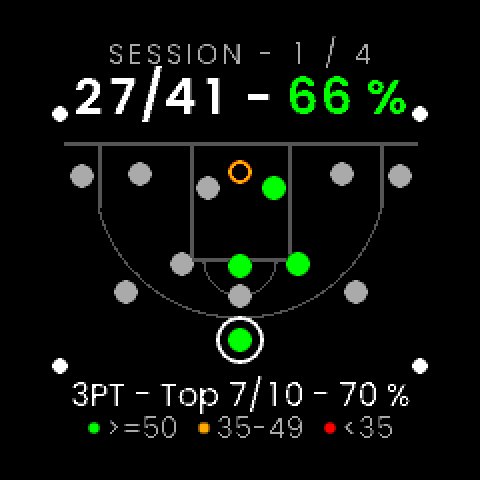
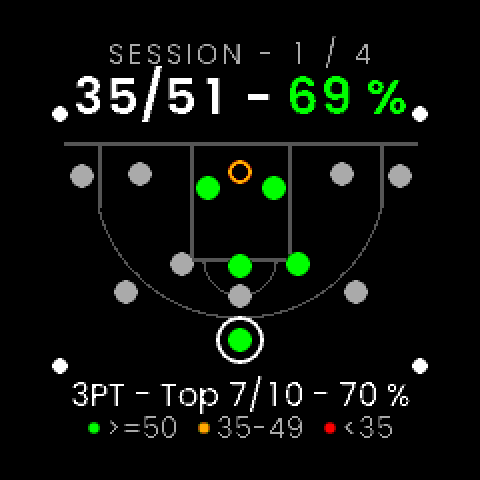
test(gui): self-test follows the 15 presets; refreshed workout previews
The walk expects the S names, Game Shots S with 5 steps / 50 shots (step 5
Layup R scripted, 34/50, categories 7/10 5/10 8/10 15/21), Mid-range Ladder S
with 10-make steps (10/12 to rest), Mikan Layups S with 25-shot steps (toast
18/25), and 11 UPs from "+ New workout" (Pro Session 200 checked) to duplicate
Game Shots S. 120 checks. Previews refreshed where the workout content shows:
workouts, workout-preview, active-workout, rest, results-court,
results-categories.

diff --git a/Software/Apps/LVGL-GUI/gui/src/SelfTest.cpp b/Software/Apps/LVGL-GUI/gui/src/SelfTest.cpp
@@ -273,13 +273,14 @@ RingArcs ringArcs()
 bool onWorkouts(const Model&) { return onScreen(ScreenId::Workouts) && onScreenLabel("WORKOUTS"); }
 bool workoutsOnGameShots(const Model&)
 {
-    return onScreen(ScreenId::Workouts) && onScreenLabel("Game Shots") && onScreenLabel("4 steps - 40 shots");
+    return onScreen(ScreenId::Workouts) && onScreenLabel("Game Shots S") && onScreenLabel("5 steps - 50 shots");
 }
-// 40 shots x 12 s + 4 x 30 s rest = 600 s.
+// 50 shots x 12 s + 5 x 30 s rest = 750 s -> 13 min.
 bool previewGameShots(const Model& m)
 {
-    return onScreen(ScreenId::WorkoutPreview) && m.selectedWorkoutId == 5 && onScreenLabel("GAME SHOTS", Theme::kAccent)
-        && onScreenLabel("Rest 30 s - about 10 min") && onScreenLabel("START") && onScreenLabel("x10");
+    return onScreen(ScreenId::WorkoutPreview) && m.selectedWorkoutId == 5
+        && onScreenLabel("GAME SHOTS S", Theme::kAccent) && onScreenLabel("Rest 30 s - about 13 min")
+        && onScreenLabel("START") && onScreenLabel("x10");
 }
 bool workoutStep(const Model& m, unsigned step, unsigned steps)
 {
@@ -291,21 +292,21 @@ bool workoutStep(const Model& m, unsigned step, unsigned steps)
 bool gsStep1Start(const Model& m)
 {
     const RingArcs r = ringArcs();
-    return workoutStep(m, 1, 4) && onScreenLabel("10 shots left") && r.look == Ring::Look::Segments
+    return workoutStep(m, 1, 5) && onScreenLabel("10 shots left") && r.look == Ring::Look::Segments
         && r.total == 10 && r.line == 10;
 }
 // M M X M M: four green, one red, five grey segments; bits 0b11011.
 bool gsStep1Mid(const Model& m)
 {
     const RingArcs r = ringArcs();
-    return workoutStep(m, 1, 4) && onScreenLabel("5 shots left") && m.snapshot().stepBits() == 0x1Bu
+    return workoutStep(m, 1, 5) && onScreenLabel("5 shots left") && m.snapshot().stepBits() == 0x1Bu
         && r.look == Ring::Look::Segments && r.total == 10 && r.good == 4 && r.bad == 1 && r.line == 5;
 }
-bool gsStep1Last(const Model& m) { return workoutStep(m, 1, 4) && onScreenLabel("last shot!"); }
+bool gsStep1Last(const Model& m) { return workoutStep(m, 1, 5) && onScreenLabel("last shot!"); }
 bool gsRest1(const Model& m)
 {
     return onScreen(ScreenId::Rest) && m.snapshot().state == static_cast<uint8_t>(score::SessionState::Rest)
-        && onScreenLabel("REST", Theme::kAmber) && onScreenLabel("NEXT - STEP 2 / 4")
+        && onScreenLabel("REST", Theme::kAmber) && onScreenLabel("NEXT - STEP 2 / 5")
         && onScreenLabel("R-Elbow x10", 0, true) && restResult(1, "7/10")
         && onScreenLabel("70 %", Theme::kGood) && m.hasStepDone() && m.lastStepDone().rest_s == 30;
 }
@@ -319,25 +320,32 @@ bool restExtended(const Model& m)
     LOG_INFO("rest countdown after +15 s: %s\n", buf);
     return m.snapshot().restRemaining_s >= 40 && onScreenLabel(buf);
 }
-bool gsStep2(const Model& m) { return workoutStep(m, 2, 4) && onScreenLabel("MID - R-ELBOW", Theme::kAccent); }
+bool gsStep2(const Model& m) { return workoutStep(m, 2, 5) && onScreenLabel("MID - R-ELBOW", Theme::kAccent); }
 bool gsRest2(const Model& m)
 {
-    return onScreen(ScreenId::Rest) && onScreenLabel("NEXT - STEP 3 / 4") && onScreenLabel("Free Throw x10")
+    return onScreen(ScreenId::Rest) && onScreenLabel("NEXT - STEP 3 / 5") && onScreenLabel("Free Throw x10")
         && restResult(2, "5/10");
 }
 bool restAfterResume(const Model& m)
 {
     return onScreen(ScreenId::Rest) && m.snapshot().state == static_cast<uint8_t>(score::SessionState::Rest)
-        && onScreenLabel("NEXT - STEP 3 / 4");
+        && onScreenLabel("NEXT - STEP 3 / 5");
 }
-bool gsStep3(const Model& m) { return workoutStep(m, 3, 4) && onScreenLabel("FREE THROW", Theme::kAccent); }
-bool gsRest3(const Model& m) { return onScreen(ScreenId::Rest) && onScreenLabel("NEXT - STEP 4 / 4"); }
-bool gsStep4(const Model& m) { return workoutStep(m, 4, 4); }
-// 7 + 5 + 8 + 6 makes of 40.
+bool gsStep3(const Model& m) { return workoutStep(m, 3, 5) && onScreenLabel("FREE THROW", Theme::kAccent); }
+bool gsRest3(const Model& m) { return onScreen(ScreenId::Rest) && onScreenLabel("NEXT - STEP 4 / 5"); }
+bool gsStep4(const Model& m) { return workoutStep(m, 4, 5) && onScreenLabel("LAYUP - L", Theme::kAccent); }
+// Step 5 next: "Layup - R x10" (or its short form "R x10"), step 4 6/10.
+bool gsRest4(const Model& m)
+{
+    return onScreen(ScreenId::Rest) && onScreenLabel("NEXT - STEP 5 / 5") && onScreenLabel("R x10", 0, true)
+        && restResult(4, "6/10");
+}
+bool gsStep5(const Model& m) { return workoutStep(m, 5, 5) && onScreenLabel("LAYUP - R", Theme::kAccent); }
+// 7 + 5 + 8 + 6 + 8 makes of 50.
 bool gsDone(const Model& m)
 {
-    return onScreen(ScreenId::Rest) && onScreenLabel("WORKOUT DONE", Theme::kGood) && onScreenLabel("26")
-        && onScreenLabel("/40") && m.snapshot().totalAttempts == 40 && m.hasStepDone() && m.lastStepDone().workoutDone
+    return onScreen(ScreenId::Rest) && onScreenLabel("WORKOUT DONE", Theme::kGood) && onScreenLabel("34")
+        && onScreenLabel("/50") && m.snapshot().totalAttempts == 50 && m.hasStepDone() && m.lastStepDone().workoutDone
         && onScreenLabel("UP - keep shooting");
 }
 bool activeDone(const Model& m)
@@ -347,9 +355,10 @@ bool activeDone(const Model& m)
 }
 bool extraShot(const Model& m)
 {
-    return activeDone(m) && m.snapshot().totalAttempts == 41 && m.snapshot().stepAttempts == 1;
+    return activeDone(m) && m.snapshot().totalAttempts == 51 && m.snapshot().stepAttempts == 1;
 }
-// Categories 3PT 7/10, Mid 5/10, FT 8/10, Layup 7/11 (with the extra make).
+// Categories 3PT 7/10, Mid 5/10, FT 8/10, Layup 15/21 (L 6/10 + R 8/10 + the
+// extra make at Layup R).
 bool gsResultsCats(const Model& m)
 {
     if (!onScreen(ScreenId::Results) || m.resultsPage != 1 || !m.hasResults()) {
@@ -359,33 +368,35 @@ bool gsResultsCats(const Model& m)
     LOG_INFO("categories: %u/%u %u/%u %u/%u %u/%u\n", st.cat[0].makes, st.cat[0].attempts, st.cat[1].makes,
              st.cat[1].attempts, st.cat[2].makes, st.cat[2].attempts, st.cat[3].makes, st.cat[3].attempts);
     return st.cat[0].attempts == 10 && st.cat[1].attempts == 10 && st.cat[2].attempts == 10
-        && st.cat[3].attempts == 11 && onScreenLabel("7/10") && onScreenLabel("5/10") && onScreenLabel("8/10")
-        && onScreenLabel("7/11");
+        && st.cat[3].attempts == 21 && st.cat[0].makes == 7 && st.cat[1].makes == 5 && st.cat[2].makes == 8
+        && st.cat[3].makes == 15 && onScreenLabel("7/10") && onScreenLabel("5/10") && onScreenLabel("8/10")
+        && onScreenLabel("15/21");
 }
 bool previewLadder(const Model& m)
 {
     return onScreen(ScreenId::WorkoutPreview) && m.selectedWorkoutId == 4
-        && onScreenLabel("MID-RANGE LADDER", Theme::kAccent) && onScreenLabel("5 mk");
+        && onScreenLabel("MID-RANGE LADDER S", Theme::kAccent) && onScreenLabel("10 mk");
 }
 // Makes goal: a progress ring (grey track + teal fill), not segments.
 bool ladderProgressRing(const Model& m)
 {
     const RingArcs r = ringArcs();
-    return workoutStep(m, 1, 5) && onScreenLabel("2 makes left") && r.look == Ring::Look::Progress && r.total == 2
+    return workoutStep(m, 1, 5) && onScreenLabel("7 makes left") && r.look == Ring::Look::Progress && r.total == 2
         && r.line == 1 && r.accent == 1;
 }
 bool ladderRest(const Model& m)
 {
     const RingArcs r = ringArcs();
-    return onScreen(ScreenId::Rest) && restResult(1, "5/7") && onScreenLabel("NEXT - STEP 2 / 5")
-        && m.lastStepDone().attempts == 7 && r.look == Ring::Look::Progress && r.amber == 1;
+    return onScreen(ScreenId::Rest) && restResult(1, "10/12") && onScreenLabel("NEXT - STEP 2 / 5")
+        && m.lastStepDone().attempts == 12 && m.lastStepDone().rest_s == 15 && r.look == Ring::Look::Progress
+        && r.amber == 1;
 }
 bool previewMikan(const Model& m)
 {
-    return onScreen(ScreenId::WorkoutPreview) && m.selectedWorkoutId == 3 && onScreenLabel("MIKAN LAYUPS")
-        && onScreenLabel("No rest - about 4 min");
+    return onScreen(ScreenId::WorkoutPreview) && m.selectedWorkoutId == 3
+        && onScreenLabel("MIKAN LAYUPS S", Theme::kAccent) && onScreenLabel("No rest - about 10 min");
 }
-// Free Throw 50: the largest segmented ring (50 arcs), then the switch to
+// Free Throw S: the largest segmented ring (50 arcs), then the switch to
 // Pause, the costliest pair of trees for LVGL's pool.
 bool ft50Segments(const Model& m)
 {
@@ -396,10 +407,10 @@ bool ft50Segments(const Model& m)
 }
 bool onPauseFt50(const Model& m) { return onPause(m) && onScreenLabel("Step 1 / 1 - 2/3 - ", 0, true); }
 
-// No rest after step 1: a toast on Active, step 2 already running.
+// No rest after step 1 (25 shots, 18 makes): a toast on Active, step 2 already running.
 bool mikanToast(const Model& m)
 {
-    return workoutStep(m, 2, 2) && onScreenLabel("Step 1 done - 6/10") && m.lastStepDone().rest_s == 0;
+    return workoutStep(m, 2, 2) && onScreenLabel("Step 1 done - 18/25") && m.lastStepDone().rest_s == 0;
 }
 
 // --- Step builder ---------------------------------------------------------------
@@ -580,12 +591,18 @@ bool workoutsWithoutCustom(const Model& m)
 bool sbDuplicate(const Model& m)
 {
     const score::Workout& d = sModel->draft();
-    return onBuilder("NEW STEP 1") && m.draftIsNew && d.id == 0 && strcmp(d.name, "Game Shots 2") == 0
-        && d.stepCount == 4 && onScreenLabel("3PT - Top");
+    return onBuilder("NEW STEP 1") && m.draftIsNew && d.id == 0 && strcmp(d.name, "Game Shots S 2") == 0
+        && d.stepCount == 5 && onScreenLabel("3PT - Top");
+}
+// After the custom workout is deleted the list sits on "+ New workout"; one UP
+// reaches the last preset (index 14).
+bool workoutsOnProSession(const Model&)
+{
+    return onScreen(ScreenId::Workouts) && menuSelected("Pro Session 200") && onScreenLabel("8 steps - 200 shots");
 }
 bool workoutsAfterDiscard(const Model& m)
 {
-    return onWorkouts(m) && m.userWorkoutCount() == 0 && !onScreenLabel("Game Shots 2");
+    return onWorkouts(m) && m.userWorkoutCount() == 0 && !onScreenLabel("Game Shots S 2");
 }
 
 // --- Settings, streak, open target, clear history --------------------------------
@@ -872,12 +889,12 @@ const Step kSteps[] = {
                              '2', "Workouts: DOWN" },
     {  300, nullptr, nullptr, '2', "Workouts: DOWN" },
     {  300, nullptr, nullptr, '2', "Workouts: DOWN" },
-    {  300, nullptr, nullptr, '2', "Workouts: DOWN (Game Shots)", nullptr, "workouts" },
-    {  400, workoutsOnGameShots, "Workouts: Game Shots, 4 steps - 40 shots",
+    {  300, nullptr, nullptr, '2', "Workouts: DOWN (Game Shots S)", nullptr, "workouts" },
+    {  400, workoutsOnGameShots, "Workouts: Game Shots S, 5 steps - 50 shots",
                              '3', "Workouts: SELECT -> Preview", nullptr, "workout-preview" },
-    {  800, previewGameShots, "Preview: GAME SHOTS, rest 30 s, about 10 min",
+    {  800, previewGameShots, "Preview: GAME SHOTS S, rest 30 s, about 13 min",
                              '3', "Preview: SELECT START -> Active (workout)" },
-    { 1200, gsStep1Start, "Active workout: STEP 1 / 4, 10 grey segments",
+    { 1200, gsStep1Start, "Active workout: STEP 1 / 5, 10 grey segments",
                              '3', "Active: make" },
     {  300, nullptr, nullptr, '3', "Active: make" },
     {  300, nullptr, nullptr, '4', "Active: miss" },
@@ -890,11 +907,11 @@ const Step kSteps[] = {
     {  300, nullptr, nullptr, '4', "Active: miss" },
     {  500, gsStep1Last, "one shot left: last shot!",
                              '3', "Active: make (10th: step done)", nullptr, "rest" },
-    {  800, gsRest1, "Rest header REST (amber), NEXT - STEP 2 / 4, Step 1 (done) - 7/10 - 70 %",
+    {  800, gsRest1, "Rest header REST (amber), NEXT - STEP 2 / 5, Step 1 (done) - 7/10 - 70 %",
                              '1', "Rest: UP +15 s" },
     {  800, restExtended, "countdown after +15 s >= 0:40",
                              '3', "Rest: SELECT skip -> Active step 2" },
-    {  800, gsStep2, "Active: STEP 2 / 4 at MID - R-ELBOW",
+    {  800, gsStep2, "Active: STEP 2 / 5 at MID - R-ELBOW",
                              '3', "Active: make" },
     {  300, nullptr, nullptr, '4', "Active: miss" },
     {  300, nullptr, nullptr, '3', "Active: make" },
@@ -905,13 +922,13 @@ const Step kSteps[] = {
     {  300, nullptr, nullptr, '4', "Active: miss" },
     {  300, nullptr, nullptr, '3', "Active: make" },
     {  300, nullptr, nullptr, '4', "Active: miss" },
-    {  800, gsRest2, "Rest: NEXT - STEP 3 / 4, Free Throw x10",
+    {  800, gsRest2, "Rest: NEXT - STEP 3 / 5, Free Throw x10",
                              '2', "Rest: DOWN -> pause, Pause" },
     { 1000, onPause, "on Pause from Rest",
                              '3', "Pause: SELECT Resume" },
     { 1000, restAfterResume, "resumed back into Rest",
                              '3', "Rest: SELECT skip -> Active step 3" },
-    {  800, gsStep3, "Active: STEP 3 / 4 at FREE THROW",
+    {  800, gsStep3, "Active: STEP 3 / 5 at FREE THROW",
                              '3', "Active: make" },
     {  300, nullptr, nullptr, '3', "Active: make" },
     {  300, nullptr, nullptr, '3', "Active: make" },
@@ -922,9 +939,9 @@ const Step kSteps[] = {
     {  300, nullptr, nullptr, '4', "Active: miss" },
     {  300, nullptr, nullptr, '3', "Active: make" },
     {  300, nullptr, nullptr, '3', "Active: make" },
-    {  800, gsRest3, "Rest: NEXT - STEP 4 / 4",
+    {  800, gsRest3, "Rest: NEXT - STEP 4 / 5",
                              '3', "Rest: SELECT skip -> Active step 4" },
-    {  800, gsStep4, "Active: STEP 4 / 4",
+    {  800, gsStep4, "Active: STEP 4 / 5 at LAYUP - L",
                              '3', "Active: make" },
     {  300, nullptr, nullptr, '3', "Active: make" },
     {  300, nullptr, nullptr, '4', "Active: miss" },
@@ -934,8 +951,21 @@ const Step kSteps[] = {
     {  300, nullptr, nullptr, '4', "Active: miss" },
     {  300, nullptr, nullptr, '3', "Active: make" },
     {  300, nullptr, nullptr, '4', "Active: miss" },
+    {  300, nullptr, nullptr, '3', "Active: make (step 4: 6/10)" },
+    {  800, gsRest4, "Rest: NEXT - STEP 5 / 5, Layup - R x10, Step 4 - 6/10",
+                             '3', "Rest: SELECT skip -> Active step 5" },
+    {  800, gsStep5, "Active: STEP 5 / 5 at LAYUP - R",
+                             '3', "Active: make" },
     {  300, nullptr, nullptr, '3', "Active: make" },
-    {  800, gsDone, "done mode: WORKOUT DONE (green), 26/40",
+    {  300, nullptr, nullptr, '3', "Active: make" },
+    {  300, nullptr, nullptr, '4', "Active: miss" },
+    {  300, nullptr, nullptr, '3', "Active: make" },
+    {  300, nullptr, nullptr, '3', "Active: make" },
+    {  300, nullptr, nullptr, '3', "Active: make" },
+    {  300, nullptr, nullptr, '4', "Active: miss" },
+    {  300, nullptr, nullptr, '3', "Active: make" },
+    {  300, nullptr, nullptr, '3', "Active: make (step 5: 8/10, workout done)" },
+    {  800, gsDone, "done mode: WORKOUT DONE (green), 34/50",
                              '2', "Rest (done): DOWN -> pause, Pause" },
     { 1000, onPause, "on Pause from the done summary",
                              '3', "Pause: SELECT Resume" },
@@ -943,30 +973,35 @@ const Step kSteps[] = {
                              '1', "Rest (done): UP keep shooting -> Active" },
     {  800, activeDone, "Active: WORKOUT DONE header, extra shots",
                              '3', "Active: make (extra shot)" },
-    {  600, extraShot, "extra shot counted: total 41",
+    {  600, extraShot, "extra shot counted: total 51",
                              '2', "Active: DOWN -> pause, Pause" },
     {  800, nullptr, nullptr, '2', "Pause: DOWN -> End & save" },
     {  500, nullptr, nullptr, '3', "Pause: SELECT End & save -> Results", nullptr, "results-court" },
     { 1500, onResults, "on Results after the workout",
                              '3', "Results 1: SELECT -> page 2", nullptr, "results-categories" },
-    {  600, gsResultsCats, "Results page 2: 4 categories, attempts 10/10/10/11",
+    {  600, gsResultsCats, "Results page 2: 4 categories, 7/10 5/10 8/10 15/21",
                              '4', "Results: BACK -> Home" },
     // Mid-range Ladder: Makes goals, a progress ring.
     { 1000, onHome, "on Home after the workout",
                              '3', "Home: SELECT -> Workouts" },
-    { 1000, nullptr, nullptr, '1', "Workouts: UP (Mid-range Ladder)" },
+    { 1000, nullptr, nullptr, '1', "Workouts: UP (Mid-range Ladder S)" },
     {  400, nullptr, nullptr, '3', "Workouts: SELECT -> Preview" },
-    {  800, previewLadder, "Preview: MID-RANGE LADDER, 5 mk rows",
+    {  800, previewLadder, "Preview: MID-RANGE LADDER S, 10 mk rows",
                              '3', "Preview: SELECT START -> Active" },
     { 1200, nullptr, nullptr, '3', "Active: make" },
     {  300, nullptr, nullptr, '4', "Active: miss" },
     {  300, nullptr, nullptr, '3', "Active: make" },
     {  300, nullptr, nullptr, '3', "Active: make" },
-    {  500, ladderProgressRing, "Makes goal: progress ring (track + teal fill), 2 makes left",
+    {  500, ladderProgressRing, "Makes goal: progress ring (track + teal fill), 7 makes left",
                              '4', "Active: miss" },
     {  300, nullptr, nullptr, '3', "Active: make" },
     {  300, nullptr, nullptr, '3', "Active: make" },
-    {  800, ladderRest, "Rest after 5 makes in 7 shots, amber ring",
+    {  300, nullptr, nullptr, '3', "Active: make" },
+    {  300, nullptr, nullptr, '3', "Active: make" },
+    {  300, nullptr, nullptr, '3', "Active: make" },
+    {  300, nullptr, nullptr, '3', "Active: make" },
+    {  300, nullptr, nullptr, '3', "Active: make (10th make: step done)" },
+    {  800, ladderRest, "Rest after 10 makes in 12 shots, rest 15, amber ring",
                              '2', "Rest: DOWN -> pause, Pause" },
     {  800, nullptr, nullptr, '2', "Pause: DOWN" },
     {  400, nullptr, nullptr, '2', "Pause: DOWN -> Discard" },
@@ -975,9 +1010,9 @@ const Step kSteps[] = {
     // Mikan Layups: no rest between the steps -> toast.
     { 1500, onHome, "on Home after discarding the ladder",
                              '3', "Home: SELECT -> Workouts" },
-    { 1000, nullptr, nullptr, '1', "Workouts: UP (Mikan Layups)" },
+    { 1000, nullptr, nullptr, '1', "Workouts: UP (Mikan Layups S)" },
     {  400, nullptr, nullptr, '3', "Workouts: SELECT -> Preview" },
-    {  800, previewMikan, "Preview: MIKAN LAYUPS, no rest",
+    {  800, previewMikan, "Preview: MIKAN LAYUPS S, no rest, about 10 min",
                              '3', "Preview: SELECT START -> Active" },
     { 1200, nullptr, nullptr, '3', "Active: make" },
     {  300, nullptr, nullptr, '3', "Active: make" },
@@ -988,23 +1023,38 @@ const Step kSteps[] = {
     {  300, nullptr, nullptr, '4', "Active: miss" },
     {  300, nullptr, nullptr, '3', "Active: make" },
     {  300, nullptr, nullptr, '3', "Active: make" },
+    {  300, nullptr, nullptr, '4', "Active: miss (10 shots: 6/10)" },
+    {  300, nullptr, nullptr, '3', "Active: make" },
+    {  300, nullptr, nullptr, '3', "Active: make" },
     {  300, nullptr, nullptr, '4', "Active: miss" },
-    {  500, mikanToast, "zero-rest step: toast Step 1 done - 6/10, STEP 2 / 2",
+    {  300, nullptr, nullptr, '3', "Active: make" },
+    {  300, nullptr, nullptr, '3', "Active: make" },
+    {  300, nullptr, nullptr, '3', "Active: make" },
+    {  300, nullptr, nullptr, '4', "Active: miss" },
+    {  300, nullptr, nullptr, '3', "Active: make" },
+    {  300, nullptr, nullptr, '3', "Active: make" },
+    {  300, nullptr, nullptr, '3', "Active: make" },
+    {  300, nullptr, nullptr, '3', "Active: make" },
+    {  300, nullptr, nullptr, '4', "Active: miss" },
+    {  300, nullptr, nullptr, '3', "Active: make" },
+    {  300, nullptr, nullptr, '3', "Active: make" },
+    {  300, nullptr, nullptr, '3', "Active: make (25th shot: step 1 done, 18/25)" },
+    {  500, mikanToast, "zero-rest step: toast Step 1 done - 18/25, STEP 2 / 2",
                              '2', "Active: DOWN -> pause, Pause" },
     {  800, nullptr, nullptr, '2', "Pause: DOWN" },
     {  400, nullptr, nullptr, '2', "Pause: DOWN -> Discard" },
     {  400, nullptr, nullptr, '3', "Pause: SELECT Discard -> confirm" },
     {  400, nullptr, nullptr, '3', "Pause: SELECT -> discard, Home" },
-    // Free Throw 50: 50 segments, then Pause.
+    // Free Throw S: 50 segments, then Pause.
     { 1500, onHome, "on Home after discarding Mikan Layups",
                              '3', "Home: SELECT -> Workouts" },
-    { 1000, nullptr, nullptr, '1', "Workouts: UP (Free Throw 50)" },
+    { 1000, nullptr, nullptr, '1', "Workouts: UP (Free Throw S)" },
     {  400, nullptr, nullptr, '3', "Workouts: SELECT -> Preview" },
     {  800, nullptr, nullptr, '3', "Preview: SELECT START -> Active" },
     { 1200, nullptr, nullptr, '3', "Active: make" },
     {  300, nullptr, nullptr, '4', "Active: miss" },
     {  300, nullptr, nullptr, '3', "Active: make" },
-    {  500, ft50Segments, "Free Throw 50: 50 segments (2 green, 1 red)",
+    {  500, ft50Segments, "Free Throw S: 50 segments (2 green, 1 red)",
                              '2', "Active: DOWN -> pause, Pause" },
     { 1000, onPauseFt50, "on Pause from a 50-segment Active",
                              '2', "Pause: DOWN" },
@@ -1099,12 +1149,23 @@ const Step kSteps[] = {
     {  300, sbConfirm, "Delete? / SELECT again, nothing deleted yet",
                              '3', "StepBuilder menu: SELECT again -> delete, Workouts" },
     { 1500, workoutsWithoutCustom, "Workouts without Custom 1, 0 user workouts, workouts.bin still 716 B",
-                             '1', "Workouts: UP (Game Shots)" },
-    {  400, workoutsOnGameShots, "Workouts: Game Shots",
+                             '1', "Workouts: UP from + New workout (Pro Session 200)" },
+    {  400, workoutsOnProSession, "Workouts: UP from + New workout lands on Pro Session 200 (8 steps - 200 shots)",
+                             '1', "Workouts: UP (Corner 3s)" },
+    {  300, nullptr, nullptr, '1', "Workouts: UP (Game Shots M)" },
+    {  300, nullptr, nullptr, '1', "Workouts: UP (Mid-range Ladder L)" },
+    {  300, nullptr, nullptr, '1', "Workouts: UP (Mikan Layups L)" },
+    {  300, nullptr, nullptr, '1', "Workouts: UP (Free Throw L)" },
+    {  300, nullptr, nullptr, '1', "Workouts: UP (Around the World L)" },
+    {  300, nullptr, nullptr, '1', "Workouts: UP (Elbows & Key)" },
+    {  300, nullptr, nullptr, '1', "Workouts: UP (FT Sets 5x10)" },
+    {  300, nullptr, nullptr, '1', "Workouts: UP (Warm-up 50)" },
+    {  300, nullptr, nullptr, '1', "Workouts: UP (Game Shots S)" },
+    {  400, workoutsOnGameShots, "Workouts: Game Shots S",
                              '3', "Workouts: SELECT -> Preview" },
-    {  800, previewGameShots, "Preview: GAME SHOTS",
+    {  800, previewGameShots, "Preview: GAME SHOTS S",
                              '2', "Preview: DOWN -> StepBuilder (a copy)" },
-    {  800, sbDuplicate, "duplicate: NEW STEP 1, Game Shots 2, id 0, 4 steps",
+    {  800, sbDuplicate, "duplicate: NEW STEP 1, Game Shots S 2, id 0, 5 steps",
                              '4', "StepBuilder Spot: BACK -> discard, Workouts" },
     {  800, workoutsAfterDiscard, "Workouts after the discard: nothing saved",
                              '4', "Workouts: BACK -> Home" },

diff --git a/CLAUDE.md b/CLAUDE.md
@@ -127,7 +127,7 @@ cd Software/Apps/LVGL-GUI/simulator
 cmake -S . -B build-selftest -G Ninja -DCMAKE_CXX_FLAGS=-DHOOPS_SELFTEST=1 && cmake --build build-selftest
 rm -f ../../../Output/workouts.bin ../../../Output/current.bin ../../../Output/settings.bin   # fresh store/settings
 (cd build/bin && SDL_VIDEODRIVER=dummy timeout 400 stdbuf -oL ./HoopsSimulator | grep -E "CHECK|done:")
-#   full walk: "done: 117 checks passed, 0 failed" (ends with Settings and settings.bin back at the defaults)
+#   full walk: "done: 120 checks passed, 0 failed" (ends with Settings and settings.bin back at the defaults)
 # Store screenshots: with HOOPS_SHOTS_DIR (an existing dir, absolute path: the cwd is build/bin) the walk
 # writes 16 frames as <name>.ppm (240x240, spec §8); tools/ppm2png.py makes the 480x480 PNGs.
 SHOTS=$(realpath ../../../..)/shots && mkdir -p $SHOTS     # shots/ is git-ignored
